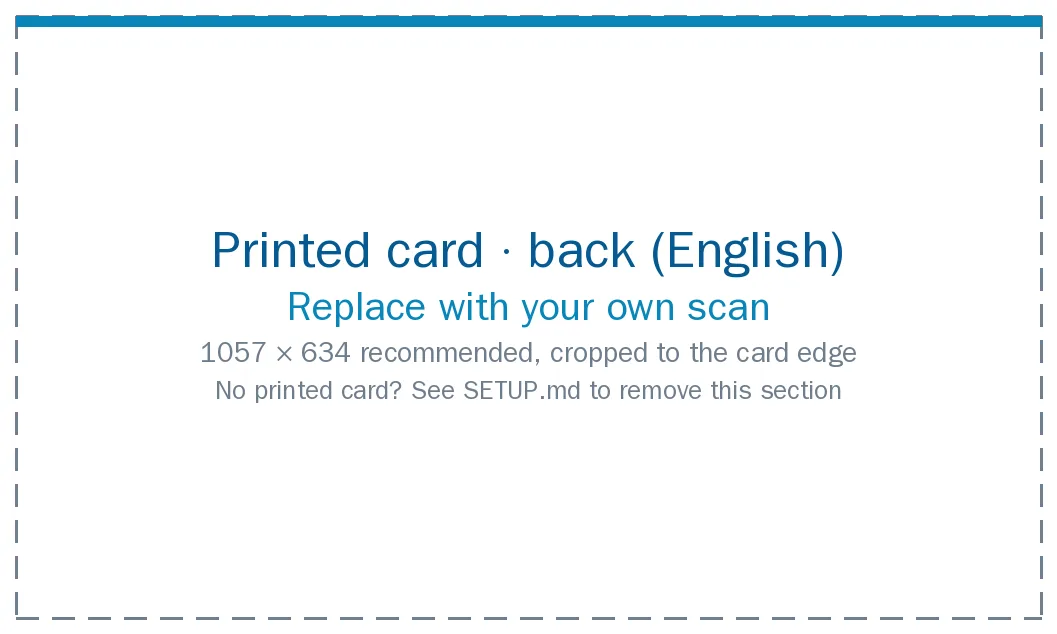
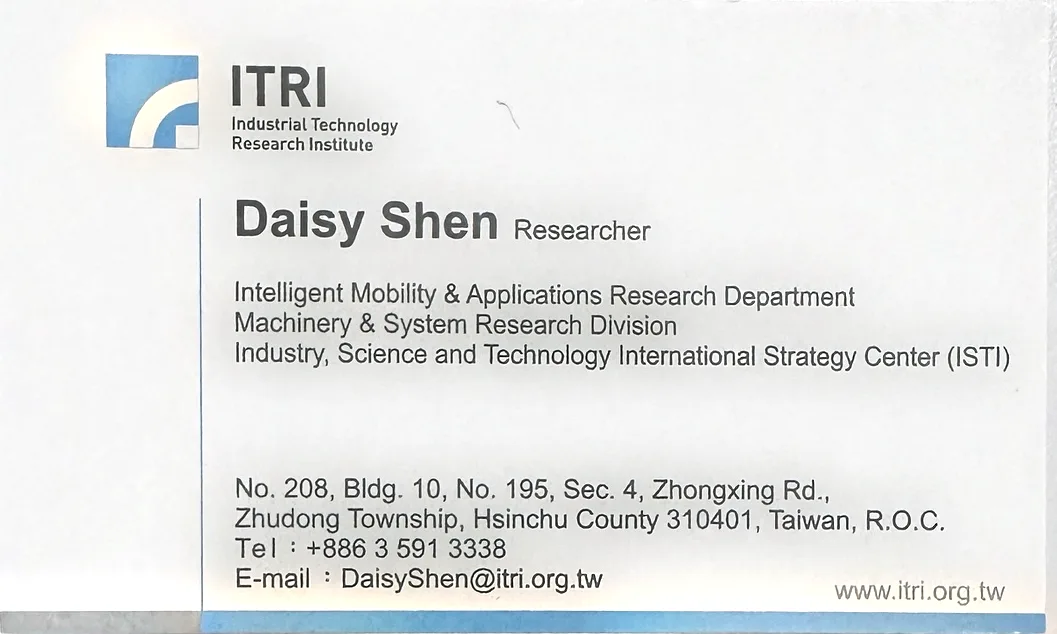
Personalise card for Daisy Shen (ITRI ISTI)
Fill config.js, card HTML and redirect page with her details in zh/en/ja,
add perspective-corrected paper card scans, logo, og image and vCard.

Claude-Session: https://claude.ai/code/session_01NY8AqdpDoNgV5XpnomLSjT

Changed region(s): [[0.0, 0.0, 1.0, 1.0]]

diff --git a/card/config.js b/card/config.js
@@ -5,44 +5,49 @@
 // 每個可翻譯欄位都是 { zh, en, ja } 三語對照，缺一不可
 // （漏翻時 npm test 會擋下）。
 //
-// ⚠ 目前全部是「範例」資料。npm test 會因為偵測到範例資料而失敗，
-//    這是刻意的——確保沒有人不小心把範例名片發布出去。
-//    把下面每一處換成你自己的資料後，測試就會通過。
+// 資料來源：沈怡如本人提供的紙本名片與簡介（2026-09-24）。
 // ─────────────────────────────────────────────────────────────
 export const card = {
   site: {
     // 名片頁本身的網址（GitHub Pages）。格式：https://<你的帳號>.github.io/card/
-    publicUrl: "https://範例帳號.github.io/card/",
+    publicUrl: "https://ohyadaisy.github.io/card/",
 
     // NFC 貼紙與對外 QR Code 要寫入的「永久入口」，也就是 repo 根目錄那一頁。
     // 這個網址永遠不要改——它不變，已發出的名片與貼紙就永遠不用重做。
-    entryUrl: "https://範例帳號.github.io/",
+    entryUrl: "https://ohyadaisy.github.io/",
 
-    title: "範例姓名 Sample Name｜儲存電子名片",
-    description: "儲存範例姓名的聯絡資訊，並在手機本機記錄相識時間、場合與地點。",
+    title: "沈怡如 Daisy Shen｜儲存電子名片",
+    description: "儲存沈怡如的聯絡資訊，並在手機本機記錄相識時間、場合與地點。",
 
     // 靜態聯絡人檔名。建議用「英文名-姓.vcf」，中間不要有空白。
-    vcardFile: "Sample-Name.vcf",
+    vcardFile: "Daisy-Shen.vcf",
   },
 
   person: {
     // 漢字姓名是 vCard 的正式識別，三語共用，不隨介面語言改變
-    name:    { zh: "範例姓名", en: "Sample Name", ja: "Sample Name" },
-    nameSub: { zh: "Sample Name", en: "範例姓名", ja: "範例姓名" },
-    title:   { zh: "範例職稱", en: "Sample Title", ja: "サンプル職位" },
-    domain:  { zh: "範例領域", en: "Sample Domain", ja: "サンプル分野" },
-    organization: {
-      zh: ["範例股份有限公司", "範例事業部"],
-      en: ["Sample Company Ltd.", "Sample Business Unit"],
-      ja: ["サンプル株式会社", "サンプル事業部"],
+    name:    { zh: "沈怡如", en: "Daisy Shen", ja: "Daisy Shen" },
+    nameSub: { zh: "Daisy Shen", en: "沈怡如", ja: "沈怡如" },
+    title:   { zh: "研究員", en: "Researcher", ja: "研究員" },
+    domain:  {
+      zh: "先進駕駛安全輔助系統、智慧運輸系統",
+      en: "Advanced Driver Assistance Systems & Intelligent Transportation Systems",
+      ja: "先進運転支援システム・高度道路交通システム（ITS）",
     },
-    phone: { display: "02 1234 5678", international: "+886-2-1234-5678" },
-    email: "sample@example.com",
-    website:  { url: "https://example.com/", label: "example.com" },
+    organization: {
+      zh: ["工業技術研究院", "產業科技國際策略發展所", "智慧移動載具與應用研究部 機械與系統研究組"],
+      en: ["Industrial Technology Research Institute (ITRI)",
+           "Industry, Science and Technology International Strategy Center (ISTI)",
+           "Intelligent Mobility & Applications Research Dept. / Machinery & System Research Division"],
+      ja: ["台湾工業技術研究院（ITRI）", "産業科学技術国際戦略発展所",
+           "スマートモビリティ・応用研究部 機械・システム研究グループ"],
+    },
+    phone: { display: "03 591 3338", international: "+886-3-591-3338" },
+    email: "DaisyShen@itri.org.tw",
+    website:  { url: "https://www.itri.org.tw/", label: "itri.org.tw" },
     // 第二個連結。沒有第二個網站時，指回公司首頁即可（這一區不可省略）。
     research: {
-      url: "https://example.com/about",
-      label: { zh: "範例連結", en: "Sample Link", ja: "サンプルリンク" },
+      url: "https://www.itri.org.tw/",
+      label: { zh: "工研院官網", en: "ITRI Website", ja: "ITRI 公式サイト" },
     },
     // LINE 好友連結。不想放 LINE 時設為 null，並依 SETUP.md 移除該區塊。
     line: { url: "https://line.me/ti/p/tc1YUITu0u" },
@@ -50,26 +55,26 @@ export const card = {
 
   expertise: {
     heading: {
-      zh: "範例專業領域標題",
-      en: "Sample Expertise Heading",
-      ja: "サンプル専門分野の見出し",
+      zh: "智慧運輸與車輛產業研究",
+      en: "Intelligent Transportation & Automotive Industry Research",
+      ja: "高度道路交通と自動車産業の研究",
     },
     bio: {
-      zh: "這裡寫兩三句自我介紹：你做什麼、專長是什麼、對方為什麼會想記住你。",
-      en: "Two or three sentences about what you do, what you are good at, and why someone would want to remember you.",
-      ja: "自己紹介を 2〜3 文で。何をしていて、何が得意で、なぜ覚えてもらいたいのか。",
+      zh: "沈怡如（Daisy Shen）現任工研院產業科技國際策略發展所研究員，畢業於國立交通大學運輸科技與管理學系研究所，專長領域為智慧型運輸系統。",
+      en: "Daisy Shen is a Researcher at ITRI's Industry, Science and Technology International Strategy Center (ISTI). She holds a master's degree from the Department of Transportation Technology and Management at National Chiao Tung University, and specializes in intelligent transportation systems.",
+      ja: "沈怡如（Daisy Shen）は台湾工業技術研究院（ITRI）産業科学技術国際戦略発展所の研究員。国立交通大学 運輸科技・管理学系 大学院修了。専門は高度道路交通システム（ITS）。",
     },
     advisory: {
-      zh: "第二段補充：目前參與的專案、可以提供的協助，或想讓對方知道的合作方向。",
-      en: "A second paragraph: current projects, how you can help, or the kind of collaboration you are open to.",
-      ja: "2 段落目：現在の取り組み、提供できる支援、期待する協業の方向性など。",
+      zh: "曾任先進駕駛輔助系統軟體公司專案管理，及 FPGA 高階開發套件公司生產管理職務。目前研究領域為聯網自駕車、智慧交通及汽車電子等相關產業。",
+      en: "She previously worked in project management at an ADAS software company and in production management at an FPGA high-end development kit company. Her current research covers connected and autonomous vehicles, smart transportation, and the automotive electronics industry.",
+      ja: "以前は先進運転支援システム（ADAS）ソフトウェア企業でプロジェクト管理を、FPGA ハイエンド開発キット企業で生産管理を担当。現在は コネクテッド自動運転車、スマート交通、車載エレクトロニクスなどの関連産業を研究している。",
     },
     // 3～5 項為宜，手機上超過 5 項會變長條
     items: [
-      { zh: "核心專長一", en: "Core Skill One",   ja: "コアスキル 1" },
-      { zh: "核心專長二", en: "Core Skill Two",   ja: "コアスキル 2" },
-      { zh: "核心專長三", en: "Core Skill Three", ja: "コアスキル 3" },
-      { zh: "核心專長四", en: "Core Skill Four",  ja: "コアスキル 4" },
+      { zh: "先進駕駛輔助系統（ADAS）", en: "Advanced Driver Assistance Systems (ADAS)", ja: "先進運転支援システム（ADAS）" },
+      { zh: "智慧運輸系統（ITS）",     en: "Intelligent Transportation Systems (ITS)",  ja: "高度道路交通システム（ITS）" },
+      { zh: "聯網自駕車",             en: "Connected & Autonomous Vehicles",           ja: "コネクテッド自動運転車" },
+      { zh: "汽車電子產業",           en: "Automotive Electronics Industry",            ja: "車載エレクトロニクス産業" },
     ],
   },
 
@@ -93,11 +98,11 @@ export const card = {
       // 圖上「實際印著」的資料。上面的欄位改了卻沒重掃名片時，
       // npm test 會比對這裡並擋下——圖是點陣檔，不會跟著 config.js 變。
       printed: {
-        titleZh: "範例職稱",
-        titleEn: "Sample Title",
-        phone: "02 1234 5678",
-        email: "sample@example.com",
-        address: "範例路一段 1 號",
+        titleZh: "研究員",
+        titleEn: "Researcher",
+        phone: "03 591 3338",
+        email: "DaisyShen@itri.org.tw",
+        address: "中興路四段195號",
       },
     },
   },
@@ -105,9 +110,9 @@ export const card = {
   // vCard 內的機構與地址固定用中文原文，不隨介面語言切換——
   // 這是聯絡人的正式紀錄，保持單一寫法才不會同一個人存出三種版本。
   vcard: {
-    organization: ["範例股份有限公司", "範例事業部"],
+    organization: ["工業技術研究院", "產業科技國際策略發展所", "智慧移動載具與應用研究部 機械與系統研究組"],
     // [郵政信箱, 樓層, 街道, 鄉鎮市區, 縣市, 郵遞區號, 國家]
-    address: ["", "", "範例路一段 1 號", "範例區", "範例市", "100", "台灣"],
+    address: ["", "10館208室", "中興路四段195號", "竹東鎮", "新竹縣", "310401", "台灣"],
   },
 };
 

diff --git a/card/index.html b/card/index.html
@@ -3,10 +3,10 @@
 <head>
 <meta charset="utf-8">
 <meta name="viewport" content="width=device-width, initial-scale=1">
-<title>範例姓名 Sample Name｜儲存電子名片</title>
-<meta name="description" content="儲存範例姓名的聯絡資訊，並在手機本機記錄相識時間、場合與地點。">
-<meta property="og:title" content="範例姓名 Sample Name｜範例股份有限公司">
-<meta property="og:description" content="儲存範例姓名的聯絡資訊，並在手機本機記錄相識時間、場合與地點。">
+<title>沈怡如 Daisy Shen｜儲存電子名片</title>
+<meta name="description" content="儲存沈怡如的聯絡資訊，並在手機本機記錄相識時間、場合與地點。">
+<meta property="og:title" content="沈怡如 Daisy Shen｜工業技術研究院">
+<meta property="og:description" content="儲存沈怡如的聯絡資訊，並在手機本機記錄相識時間、場合與地點。">
 <meta property="og:image" content="og.png">
 <meta property="og:type" content="profile">
 <meta name="twitter:card" content="summary_large_image">
@@ -20,7 +20,7 @@
   <section class="profile" aria-labelledby="profile-name">
     <div class="brand-row">
       <div class="org-logo-frame">
-        <img class="org-logo" src="logo.png" alt="範例股份有限公司 Sample Company Ltd." width="1200" height="388">
+        <img class="org-logo" src="logo.png" alt="工業技術研究院 Industrial Technology Research Institute" width="1200" height="388">
       </div>
       <div class="brand-actions">
         <span class="digital-label">Digital Business Card</span>
@@ -32,48 +32,48 @@
       </div>
     </div>
 
-    <p class="eyebrow">Sample Company Ltd.</p>
+    <p class="eyebrow">Industrial Technology Research Institute</p>
 
     <div class="identity">
-      <img class="portrait" id="portrait" src="portrait.png" alt="範例姓名 Sample Name 個人照片" width="404" height="404">
+      <img class="portrait" id="portrait" src="portrait.png" alt="沈怡如 Daisy Shen 個人照片" width="404" height="404">
       <div class="identity-copy">
-        <h1 id="profile-name"><span id="name-main">範例姓名</span> <span id="name-sub">Sample Name</span></h1>
-        <p class="role" id="role">範例職稱 · Sample Title</p>
-        <p class="domain" id="domain">範例領域</p>
-        <p class="org" id="org">範例股份有限公司<br>範例事業部</p>
+        <h1 id="profile-name"><span id="name-main">沈怡如</span> <span id="name-sub">Daisy Shen</span></h1>
+        <p class="role" id="role">研究員 · Researcher</p>
+        <p class="domain" id="domain">先進駕駛安全輔助系統、智慧運輸系統</p>
+        <p class="org" id="org">工業技術研究院<br>產業科技國際策略發展所<br>智慧移動載具與應用研究部 機械與系統研究組</p>
       </div>
     </div>
 
     <address class="contact-details" id="contact-details" aria-label="聯絡方式">
-      <div><span data-t="phoneLabel">電話</span><a href="tel:+886212345678">02 1234 5678</a></div>
-      <div><span>Email</span><a href="mailto:sample@example.com">sample@example.com</a></div>
-      <div><span data-t="websiteLabel">網站</span><a href="https://example.com/" target="_blank" rel="noreferrer">example.com</a></div>
-      <div><span data-t="researchLabel">相關連結</span><a href="https://example.com/about" target="_blank" rel="noreferrer" id="research-link">範例連結</a></div>
+      <div><span data-t="phoneLabel">電話</span><a href="tel:+88635913338">03 591 3338</a></div>
+      <div><span>Email</span><a href="mailto:DaisyShen@itri.org.tw">DaisyShen@itri.org.tw</a></div>
+      <div><span data-t="websiteLabel">網站</span><a href="https://www.itri.org.tw/" target="_blank" rel="noreferrer">itri.org.tw</a></div>
+      <div><span data-t="researchLabel">相關連結</span><a href="https://www.itri.org.tw/" target="_blank" rel="noreferrer" id="research-link">工研院官網</a></div>
     </address>
   </section>
 
   <section class="expertise" aria-labelledby="expertise-title">
     <p class="step">ABOUT</p>
-    <h2 id="expertise-title">範例專業領域標題</h2>
-    <p class="bio" id="bio">這裡寫兩三句自我介紹：你做什麼、專長是什麼、對方為什麼會想記住你。</p>
-    <p class="bio ai-advisory" id="advisory">第二段補充：目前參與的專案、可以提供的協助，或想讓對方知道的合作方向。</p>
+    <h2 id="expertise-title">智慧運輸與車輛產業研究</h2>
+    <p class="bio" id="bio">沈怡如（Daisy Shen）現任工研院產業科技國際策略發展所研究員，畢業於國立交通大學運輸科技與管理學系研究所，專長領域為智慧型運輸系統。</p>
+    <p class="bio ai-advisory" id="advisory">曾任先進駕駛輔助系統軟體公司專案管理，及 FPGA 高階開發套件公司生產管理職務。目前研究領域為聯網自駕車、智慧交通及汽車電子等相關產業。</p>
     <ul class="expertise-list" id="expertise-list" aria-label="核心專長">
-      <li>核心專長一</li>
-      <li>核心專長二</li>
-      <li>核心專長三</li>
-      <li>核心專長四</li>
+      <li>先進駕駛輔助系統（ADAS）</li>
+      <li>智慧運輸系統（ITS）</li>
+      <li>聯網自駕車</li>
+      <li>汽車電子產業</li>
     </ul>
   </section>
 
   <section class="line-connect" aria-labelledby="line-title">
     <div class="line-copy">
       <p class="line-kicker">LINE</p>
-      <h2 id="line-title">加入範例姓名為好友</h2>
+      <h2 id="line-title">加入沈怡如為好友</h2>
       <p id="line-desc">點擊按鈕直接開啟 LINE，或使用另一支手機掃描 QR Code。</p>
       <a class="line-button" id="line-button" href="https://line.me/ti/p/tc1YUITu0u" target="_blank" rel="noreferrer">開啟 LINE 加好友</a>
     </div>
-    <a class="line-qr" id="line-qr-link" href="https://line.me/ti/p/tc1YUITu0u" target="_blank" rel="noreferrer" aria-label="開啟 LINE 加入範例姓名為好友">
-      <img src="line-qr.jpg" alt="範例姓名的 LINE 好友 QR Code" width="1054" height="1054">
+    <a class="line-qr" id="line-qr-link" href="https://line.me/ti/p/tc1YUITu0u" target="_blank" rel="noreferrer" aria-label="開啟 LINE 加入沈怡如為好友">
+      <img src="line-qr.jpg" alt="沈怡如的 LINE 好友 QR Code" width="1054" height="1054">
     </a>
   </section>
 
@@ -85,11 +85,11 @@
       <button type="button" class="paper-flip" id="paper-flip" aria-pressed="false" aria-label="翻面檢視英文面">
         <picture class="paper-face" id="paper-front">
           <source srcset="card-front-zh.webp" type="image/webp">
-          <img src="card-front-zh.jpg" alt="範例姓名，範例股份有限公司，中文名片正面" width="1057" height="634" loading="lazy" decoding="async">
+          <img src="card-front-zh.jpg" alt="沈怡如 Daisy Shen，工業技術研究院，中文名片正面" width="1057" height="634" loading="lazy" decoding="async">
         </picture>
         <picture class="paper-face" id="paper-back" hidden>
           <source srcset="card-back-en.webp" type="image/webp">
-          <img src="card-back-en.jpg" alt="Sample Name, Sample Company Ltd. — English side of the card" width="1057" height="634" loading="lazy" decoding="async">
+          <img src="card-back-en.jpg" alt="Daisy Shen, Industrial Technology Research Institute (ITRI) — English side of the card" width="1057" height="634" loading="lazy" decoding="async">
         </picture>
       </button>
     </div>
@@ -100,7 +100,7 @@
     <div class="section-heading">
       <p class="step" id="save-step">儲存名片</p>
       <h2 id="memory-title">留下這次相識的線索</h2>
-      <p id="memory-intro">以下資料只用於即時產生聯絡人檔案，不建立資料庫紀錄，也不會提供給範例姓名。</p>
+      <p id="memory-intro">以下資料只用於即時產生聯絡人檔案，不建立資料庫紀錄，也不會提供給沈怡如。</p>
     </div>
 
     <label>
@@ -121,15 +121,15 @@
       <button class="secondary" type="button" id="location-button">加入目前位置</button>
     </div>
 
-    <button class="primary" type="button" id="save-button">儲存範例姓名到聯絡人</button>
+    <button class="primary" type="button" id="save-button">儲存沈怡如到聯絡人</button>
     <p class="footnote" id="save-footnote" role="status" aria-live="polite">手機會先開啟分享選單；請選擇「聯絡人」。若沒有此選項，可先「儲存到檔案」再開啟 VCF。</p>
     <div class="save-result" id="save-result" hidden role="status" aria-live="polite">
-      <p class="save-result-title" id="save-result-title">已下載 Sample-Name.vcf</p>
+      <p class="save-result-title" id="save-result-title">已下載 Daisy-Shen.vcf</p>
       <p class="save-result-body" id="save-result-body">檔案已存到手機的「下載」資料夾。點下方按鈕開啟它，手機就會問你要不要加入聯絡人。</p>
       <a class="save-result-action" id="save-result-action" href="#">開啟檔案並加入聯絡人</a>
     </div>
 
-    <a class="manual-fallback" id="manual-fallback" hidden download="Sample-Name.vcf">長按這裡另存聯絡人檔案</a>
+    <a class="manual-fallback" id="manual-fallback" hidden download="Daisy-Shen.vcf">長按這裡另存聯絡人檔案</a>
   </section>
 
 </main>

diff --git a/index.html b/index.html
@@ -3,7 +3,7 @@
 <head>
 <meta charset="utf-8">
 <meta name="viewport" content="width=device-width, initial-scale=1">
-<title>範例姓名 Sample Name｜電子名片</title>
+<title>沈怡如 Daisy Shen｜電子名片</title>
 
 <!-- ===================================================================
      永久入口轉址層 (permanent entry redirect)
@@ -17,8 +17,8 @@
      三處必須一致，否則會轉到別人的名片。
      =================================================================== -->
 
-<link rel="canonical" href="https://範例帳號.github.io/card/">
-<meta http-equiv="refresh" content="0; url=https://範例帳號.github.io/card/">
+<link rel="canonical" href="https://ohyadaisy.github.io/card/">
+<meta http-equiv="refresh" content="0; url=https://ohyadaisy.github.io/card/">
 
 <style>
   :root { color-scheme: light dark; }
@@ -59,17 +59,17 @@
 </head>
 <body>
 <main>
-  <p class="name">範例姓名　Sample Name</p>
-  <p class="role">範例職稱　Sample Title<br>範例股份有限公司　Sample Company Ltd.</p>
+  <p class="name">沈怡如　Daisy Shen</p>
+  <p class="role">研究員　Researcher<br>工業技術研究院　ITRI</p>
   <p class="msg">正在開啟電子名片…<br><span lang="en">Opening digital business card…</span></p>
-  <a class="btn" id="go" href="https://範例帳號.github.io/card/">
+  <a class="btn" id="go" href="https://ohyadaisy.github.io/card/">
     手動開啟　Open manually
   </a>
 </main>
 
 <script>
   // 目標網址：更換名片站台時只需改這一行
-  var TARGET = "https://範例帳號.github.io/card/";
+  var TARGET = "https://ohyadaisy.github.io/card/";
 
   // 保留查詢字串與錨點，方便日後做來源追蹤（例如 ?src=nfc）
   var target = TARGET + location.search + location.hash;
